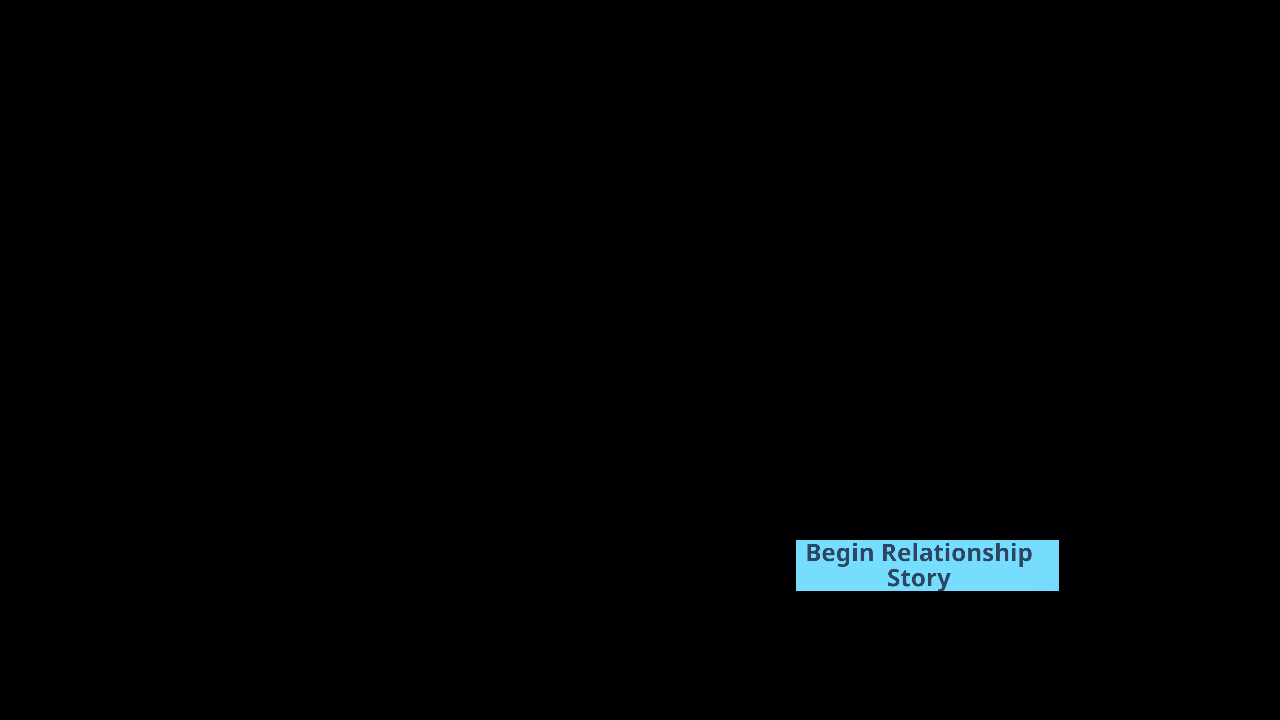
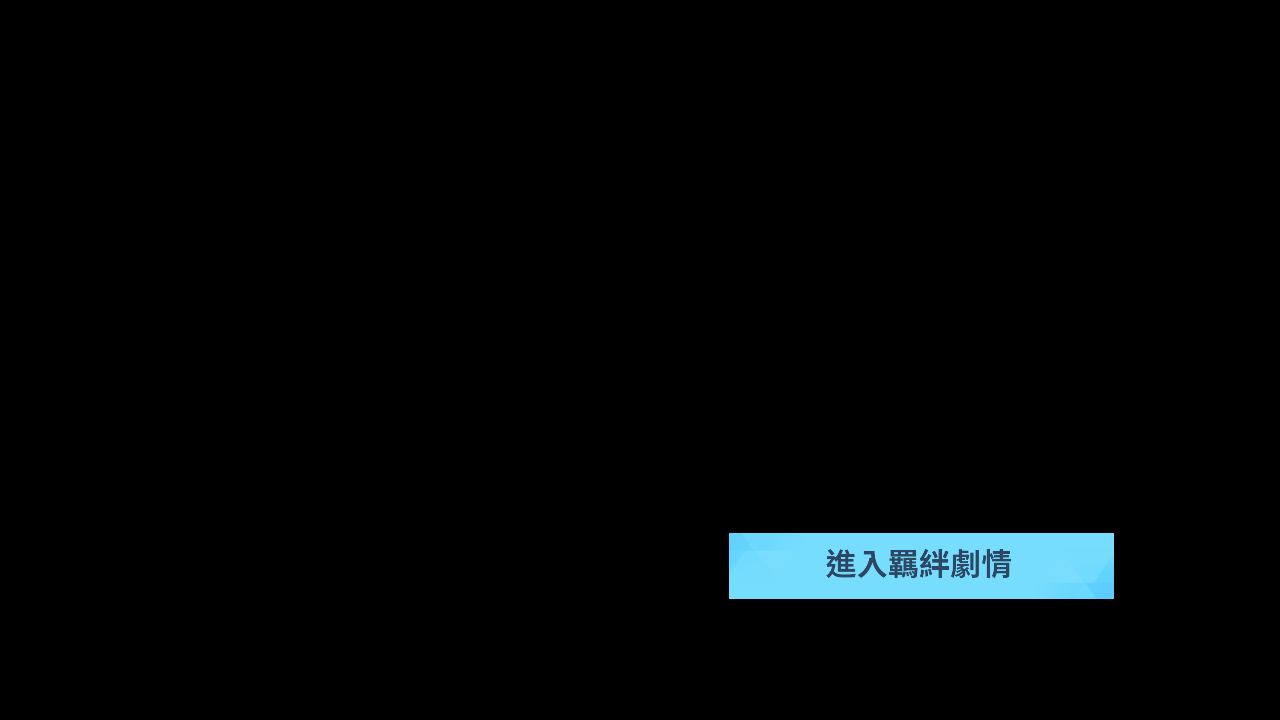
feat: momotalk zht

Changed region(s): [[0.5625, 0.7333, 0.875, 0.8556]]

diff --git a/tasks/momotalk/assets/assets_momotalk.py b/tasks/momotalk/assets/assets_momotalk.py
@@ -15,10 +15,10 @@ BEGIN_STORY = ButtonWrapper(
     ),
     zht=Button(
         file='./assets/zht/momotalk/BEGIN_STORY.png',
-        area=(796, 540, 1059, 591),
-        search=(776, 520, 1079, 611),
-        color=(107, 197, 230),
-        button=(796, 540, 1059, 591),
+        area=(729, 533, 1114, 599),
+        search=(709, 513, 1134, 619),
+        color=(110, 205, 239),
+        button=(729, 533, 1114, 599),
     ),
 )
 CHATTING = ButtonWrapper(
@@ -69,10 +69,10 @@ CONFIRM_SKIP = ButtonWrapper(
     ),
     zht=Button(
         file='./assets/zht/momotalk/CONFIRM_SKIP.png',
-        area=(674, 486, 871, 555),
-        search=(654, 466, 891, 575),
-        color=(112, 207, 241),
-        button=(674, 486, 871, 555),
+        area=(665, 492, 875, 555),
+        search=(645, 472, 895, 575),
+        color=(111, 209, 244),
+        button=(665, 492, 875, 555),
     ),
 )
 CONFIRM_SORT = ButtonWrapper(
@@ -87,10 +87,10 @@ CONFIRM_SORT = ButtonWrapper(
     ),
     zht=Button(
         file='./assets/zht/momotalk/CONFIRM_SORT.png',
-        area=(239, 407, 657, 439),
-        search=(219, 387, 677, 459),
-        color=(248, 249, 249),
-        button=(239, 407, 657, 439),
+        area=(240, 401, 656, 440),
+        search=(220, 381, 676, 460),
+        color=(249, 250, 250),
+        button=(240, 401, 656, 440),
     ),
 )
 FIRST_UNREAD = ButtonWrapper(
@@ -123,10 +123,10 @@ MENU = ButtonWrapper(
     ),
     zht=Button(
         file='./assets/zht/momotalk/MENU.png',
-        area=(1156, 15, 1251, 63),
-        search=(1136, 0, 1271, 83),
-        color=(215, 219, 222),
-        button=(1156, 15, 1251, 63),
+        area=(1151, 20, 1256, 61),
+        search=(1131, 0, 1276, 81),
+        color=(214, 218, 223),
+        button=(1151, 20, 1256, 61),
     ),
 )
 NOTIFICATION_BADGE = ButtonWrapper(
@@ -159,10 +159,10 @@ REPLY = ButtonWrapper(
     ),
     zht=Button(
         file='./assets/zht/momotalk/REPLY.png',
-        area=(791, 431, 855, 462),
-        search=(771, 411, 875, 482),
-        color=(198, 210, 216),
-        button=(791, 431, 855, 462),
+        area=(783, 428, 838, 460),
+        search=(763, 408, 858, 480),
+        color=(189, 203, 211),
+        button=(783, 428, 838, 460),
     ),
 )
 SELECT_STUDENT = ButtonWrapper(
@@ -177,10 +177,10 @@ SELECT_STUDENT = ButtonWrapper(
     ),
     zht=Button(
         file='./assets/zht/momotalk/SELECT_STUDENT.png',
-        area=(839, 369, 998, 403),
-        search=(819, 349, 1018, 423),
-        color=(241, 242, 242),
-        button=(839, 369, 998, 403),
+        area=(849, 365, 980, 406),
+        search=(829, 345, 1000, 426),
+        color=(236, 237, 238),
+        button=(849, 365, 980, 406),
     ),
 )
 SKIP = ButtonWrapper(
@@ -195,10 +195,10 @@ SKIP = ButtonWrapper(
     ),
     zht=Button(
         file='./assets/zht/momotalk/SKIP.png',
-        area=(1192, 103, 1229, 141),
-        search=(1172, 83, 1249, 161),
-        color=(108, 125, 145),
-        button=(1192, 103, 1229, 141),
+        area=(1186, 95, 1231, 144),
+        search=(1166, 75, 1251, 164),
+        color=(85, 105, 129),
+        button=(1186, 95, 1231, 144),
     ),
 )
 SORT_ASCENDING = ButtonWrapper(
@@ -249,10 +249,10 @@ STORY = ButtonWrapper(
     ),
     zht=Button(
         file='./assets/zht/momotalk/STORY.png',
-        area=(790, 529, 979, 557),
-        search=(770, 509, 999, 577),
-        color=(220, 208, 214),
-        button=(790, 529, 979, 557),
+        area=(781, 527, 878, 555),
+        search=(761, 507, 898, 575),
+        color=(208, 197, 204),
+        button=(781, 527, 878, 555),
     ),
 )
 SWITCH_MESSAGE = ButtonWrapper(
@@ -285,10 +285,10 @@ SWITCH_MESSAGE_CHECK = ButtonWrapper(
     ),
     zht=Button(
         file='./assets/zht/momotalk/SWITCH_MESSAGE_CHECK.png',
-        area=(228, 165, 391, 194),
-        search=(208, 145, 411, 214),
-        color=(211, 215, 217),
-        button=(228, 165, 391, 194),
+        area=(226, 161, 320, 194),
+        search=(206, 141, 340, 214),
+        color=(199, 203, 205),
+        button=(226, 161, 320, 194),
     ),
 )
 SWITCH_STUDENT = ButtonWrapper(
@@ -321,10 +321,10 @@ SWITCH_STUDENT_CHECK = ButtonWrapper(
     ),
     zht=Button(
         file='./assets/zht/momotalk/SWITCH_STUDENT_CHECK.png',
-        area=(229, 166, 320, 192),
-        search=(209, 146, 340, 212),
-        color=(199, 203, 205),
-        button=(229, 166, 320, 192),
+        area=(221, 161, 281, 197),
+        search=(201, 141, 301, 217),
+        color=(210, 214, 216),
+        button=(221, 161, 281, 197),
     ),
 )
 UNREAD = ButtonWrapper(
@@ -339,10 +339,10 @@ UNREAD = ButtonWrapper(
     ),
     zht=Button(
         file='./assets/zht/momotalk/UNREAD.png',
-        area=(454, 160, 568, 193),
-        search=(434, 140, 588, 213),
+        area=(453, 160, 567, 195),
+        search=(433, 140, 587, 215),
         color=(241, 242, 243),
-        button=(454, 160, 568, 193),
+        button=(453, 160, 567, 195),
     ),
 )
 UNREAD_OFF = ButtonWrapper(
@@ -357,10 +357,10 @@ UNREAD_OFF = ButtonWrapper(
     ),
     zht=Button(
         file='./assets/zht/momotalk/UNREAD_OFF.png',
-        area=(456, 273, 658, 316),
-        search=(436, 253, 678, 336),
-        color=(252, 252, 251),
-        button=(456, 273, 658, 316),
+        area=(459, 274, 658, 314),
+        search=(439, 254, 678, 334),
+        color=(251, 251, 251),
+        button=(459, 274, 658, 314),
     ),
 )
 UNREAD_ON = ButtonWrapper(
@@ -375,9 +375,9 @@ UNREAD_ON = ButtonWrapper(
     ),
     zht=Button(
         file='./assets/zht/momotalk/UNREAD_ON.png',
-        area=(456, 272, 658, 314),
-        search=(436, 252, 678, 334),
-        color=(245, 120, 144),
-        button=(456, 272, 658, 314),
+        area=(455, 272, 658, 314),
+        search=(435, 252, 678, 334),
+        color=(244, 118, 143),
+        button=(455, 272, 658, 314),
     ),
 )
